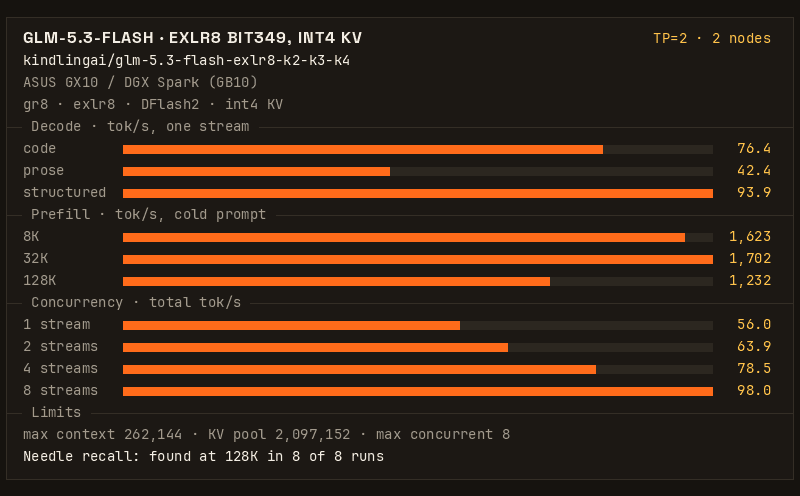
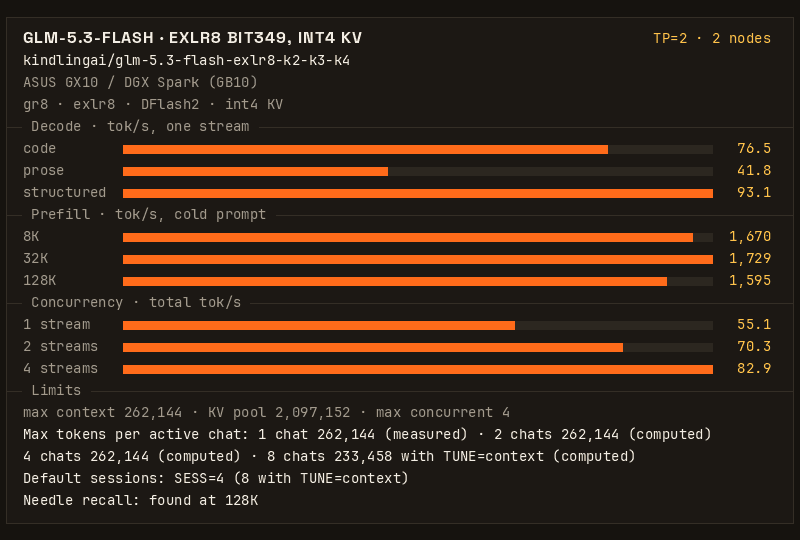
Set TUNE=speed default SESS=4 for shared waterfill MTP=3; regenerate card (#23)

diff --git a/README.md b/README.md
@@ -147,7 +147,7 @@ Set these in `.env` next to `compose.yaml` (see `.env.example`), or with `docker
 | `PEERS` | none | The two boxes' 10G LAN addresses, head first. Required unless `MENTAT=1`. |
 | `IPS`, `IPS2` | none | Each box's ConnectX address on PCIe root 1 and root 2, in `PEERS` order. |
 | `VARIANT` | `bit349` (`k4` with `TUNE=quality`) | The release's width manifest, such as `bit349` or `k4`. A width not in the cache yet downloads at boot. |
-| `SESS` | `8` (`4` with `TUNE=quality`) | The requests that decode at once, 1 to 8. |
+| `SESS` | `4` (`8` with `TUNE=context`) | The requests that decode at once, 1 to 8. |
 | `CAP` | `2097152` (`262208` with `TUNE=quality`) | The KV pool in tokens, shared by the sessions. Each request reserves its prompt + `max_tokens` from it. |
 | `MAX_MODEL_LEN` | `262144` (`1048576` with `TUNE=context`) | The longest single request, prompt and output together. At most 1,048,576. |
 | `DFLASH` | `1` | `1` drafts with [DFlash2](https://huggingface.co/incoai/GLM-5.3-Flash-DFlash2) (CC BY-NC-ND 4.0) when a request runs alone, downloaded on the first boot. `0` uses MTP only and downloads nothing. |
@@ -163,7 +163,7 @@ The image pins the weights to fixed Hugging Face commits. Set `MODEL` or `DRAFTE
 (`https://huggingface.co/<org>/<repo>@<commit>`). With a `MODEL` that follows a branch, set `VARIANT` to the
 manifest's path.
 
-[gr8/KNOBS.md](https://github.com/kindlingai/gr8/blob/d62cb6b4eae3fb0eba5f71d98be90d0fb65b8aa4/KNOBS.md) lists the
+[gr8/KNOBS.md](https://github.com/kindlingai/gr8/blob/db6f2c17c7b05303b69ce667e416d10340aeb9b7/KNOBS.md) lists the
 advanced `gr8` options, which you can also set in `.env`.
 
 ## Pick what to prioritize
@@ -172,9 +172,11 @@ advanced `gr8` options, which you can also set in `.env`.
 
 | `TUNE` | sets |
 |---|---|
-| `speed` (default) | `VARIANT=bit349`, `SESS=8`, `CAP=2097152`, `MAX_MODEL_LEN=262144` |
-| `context` | the same as `speed`, with `MAX_MODEL_LEN=1048576` and context-parallel KV (`GR8_CP=1`, experimental) |
+| `speed` (default) | `VARIANT=bit349`, `SESS=4`, `CAP=2097152`, `MAX_MODEL_LEN=262144` |
+| `context` | `VARIANT=bit349`, `SESS=8`, `CAP=2097152`, `MAX_MODEL_LEN=1048576`, and context-parallel KV (`GR8_CP=1`, experimental) |
 | `quality` | `VARIANT=k4` (the release's widest width), `SESS=4`, `CAP=262208`, `MAX_MODEL_LEN=262144` |
+
+With shared waterfill MTP=3 drafting (`S2_SHARED_WATERFILL=1`, `MTP=3`), `TUNE=speed` defaults to `SESS=4` (max concurrent 4), leaving 8.9-9.2 GiB of post-capture memory free per box (25 s warm boot; 55.1 / 70.3 / 82.9 tok/s at 1 / 2 / 4 streams, against 56.0 / 63.9 / 78.5 tok/s on the prior `SESS=8` `MTP=1` build). `SESS=8` with `MTP=3` without context-parallel KV leaves 6.4-6.9 GiB free; `TUNE=context` runs `SESS=8` with `GR8_CP=1` (8.7-9.1 GiB free, 29 s warm boot, 53.0 / 69.2 / 79.8 / 97.4 tok/s at 1 / 2 / 4 / 8 streams). `TUNE=quality` runs `SESS=4` with `MTP=3` (9.4-9.6 GiB free, 53.3 / 65.3 / 78.3 tok/s at 1 / 2 / 4 streams vs 53.1 / 58.7 / 72.4 tok/s with `GR8_S2_SHARED_WATERFILL=0`).
 
 ## Compact expert copies
 

diff --git a/AGENTS.md b/AGENTS.md
@@ -66,8 +66,8 @@ Set the same values on both boxes, in `.env` (compose) or with `docker run -e`.
 
 | `TUNE` | the settings it sets (`knobs.sh`) | what it gives |
 |---|---|---|
-| `speed` (default) | `VARIANT=bit349`, `SESS=8`, `CAP=2097152`, `MAX_MODEL_LEN=262144` | the settings of README.md's card: eight requests at once, each up to 262,144 tokens |
-| `context` | the same as `speed`, with `MAX_MODEL_LEN=1048576` and `GR8_CP=1` added to `EXTRA_ENV` (context-parallel KV) | one request up to 1,048,576 tokens, with more memory free on each box. Decode at short context and prefill are a little slower |
+| `speed` (default) | `VARIANT=bit349`, `SESS=4`, `CAP=2097152`, `MAX_MODEL_LEN=262144` | the settings of README.md's card: four requests at once, each up to 262,144 tokens |
+| `context` | `VARIANT=bit349`, `SESS=8`, `CAP=2097152`, `MAX_MODEL_LEN=1048576`, and `GR8_CP=1` added to `EXTRA_ENV` (context-parallel KV) | eight requests at once, one request up to 1,048,576 tokens, with more memory free on each box. Decode at short context and prefill are a little slower |
 | `quality` | `VARIANT=k4`, `SESS=4`, `CAP=262208`, `MAX_MODEL_LEN=262144` | the release's widest width (K4), four requests at once, each up to 262,144 tokens |
 
 What else `knobs.sh` does:
@@ -88,7 +88,7 @@ Every knob:
 | `IPS`, `IPS2` | each box's ConnectX address on PCIe root 1 and root 2, in `PEERS` order | none |
 | `TUNE` | `speed`, `context`, `quality` | `speed` |
 | `VARIANT` | the release's width manifest: `bit349` (K3 with K4 where it lowers KL most, about 3.49 bits a routed weight), `k4`, or another of the release's manifests | `TUNE`'s: `bit349`, or `k4` for `quality` |
-| `SESS` | the requests that decode at once, 1 to 8 | `TUNE`'s: `8`, or `4` for `quality` |
+| `SESS` | the requests that decode at once, 1 to 8 | `TUNE`'s: `4`, or `8` for `context` |
 | `CAP` | the KV pool in tokens, shared by the sessions, a multiple of 64; about 5 KB of memory a token. Every box holds the whole pool | `TUNE`'s: `2097152`, or `262208` for `quality` |
 | `MAX_MODEL_LEN` | the longest single request, prompt and output together: at most `CAP` less the guard rows, and at most 1,048,576 | `TUNE`'s: `262144`, or `1048576` for `context` |
 | `DFLASH` | `1`: a request alone drafts with the DFlash2 drafter (licence CC BY-NC-ND 4.0), downloaded and converted on the first boot. `0`: MTP only, nothing downloaded | `1` |
